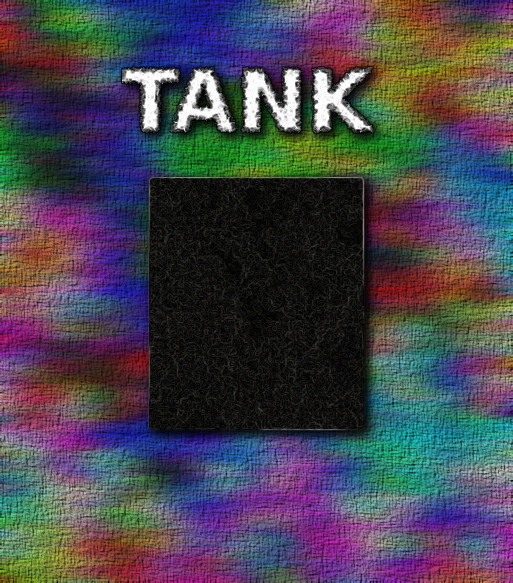
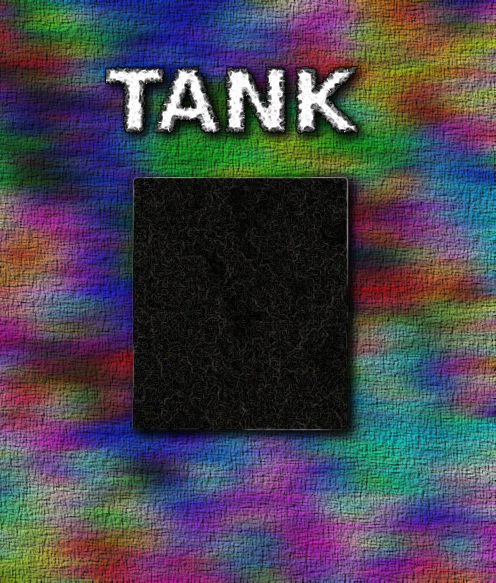
load sound befor  gameplay, fixed window width and heigth

diff --git a/TANK/src/MainPanel.java b/TANK/src/MainPanel.java
@@ -19,8 +19,9 @@ public class MainPanel extends JPanel implements Runnable{
 	
 	private JButton startButton = new JButton("Play");
 	private JButton multiButton = new JButton("Top 10");
-	private JLabel healthLable = new JLabel("Life ");
-	private JLabel scoreLable = new JLabel("Score ");
+	private JLabel healthLable1 = new JLabel("Tank HP: ");
+	private JLabel healthLable2 = new JLabel("Bird HP: ");
+	private JLabel scoreLable = new JLabel("Score: ");
 	private JLabel totalScoreLable = new JLabel();
 	private JTextField nameTextField = new JTextField("Tank name");
 	private JLabel titleLable = new JLabel();
@@ -58,6 +59,9 @@ public class MainPanel extends JPanel implements Runnable{
 		this.setBackground(new Color(0, 0, 0));
 			
 		guiSetUp();
+
+		Sound loadShoot = new Sound("Sounds\\tank_shoot01.wav");
+		loadShoot.play(-100.0f);
 		
 		changeGameState(GameStates.MainMenu); // default: MainMenu
 		
@@ -189,8 +193,9 @@ public class MainPanel extends JPanel implements Runnable{
 						deadBlockList.clear();
 					}
 
-					healthLable.setText("Life " + tank.getCurHp());
-					scoreLable.setText("Score " + String.format("%08d", tank.getScore()));
+					healthLable1.setText("Tank HP: " + tank.getCurHp());
+					healthLable2.setText("Bird HP: " + bird.getCurHP());
+					scoreLable.setText("Score: " + String.format("%08d", tank.getScore()));
 				}
 			}
 			// ----------------------------------- Speles darbibas koda beigas
@@ -230,7 +235,8 @@ public class MainPanel extends JPanel implements Runnable{
 				startButton.setVisible(true);
 				nameTextField.setVisible(true);
 				scoreLable.setVisible(false);
-				healthLable.setVisible(false);
+				healthLable1.setVisible(false);
+				healthLable2.setVisible(false);
 				totalScoreLable.setVisible(false);
 				scorePanel.setVisible(false);
 				break;
@@ -240,7 +246,8 @@ public class MainPanel extends JPanel implements Runnable{
 				startButton.setVisible(false);
 				nameTextField.setVisible(false);
 				scoreLable.setVisible(true);
-				healthLable.setVisible(true);
+				healthLable1.setVisible(true);
+				healthLable2.setVisible(true);
 				totalScoreLable.setVisible(false);
 				scorePanel.setVisible(false);
 				multiButton.setVisible(false);
@@ -249,7 +256,8 @@ public class MainPanel extends JPanel implements Runnable{
 				currentGameState = state;
 				titleLable.setVisible(true);
 				scoreLable.setVisible(false);
-				healthLable.setVisible(false);
+				healthLable1.setVisible(false);
+				healthLable2.setVisible(false);
 				totalScoreLable.setVisible(true);
 				multiButton.setVisible(true);
 				multiButton.setText("Continue");
@@ -261,7 +269,8 @@ public class MainPanel extends JPanel implements Runnable{
 				currentGameState = state;
 				titleLable.setVisible(true);
 				scoreLable.setVisible(false);
-				healthLable.setVisible(false);
+				healthLable1.setVisible(false);
+				healthLable2.setVisible(false);
 				totalScoreLable.setVisible(true);
 				multiButton.setVisible(true);
 				multiButton.setText("End game");
@@ -282,7 +291,7 @@ public class MainPanel extends JPanel implements Runnable{
 	}
 
 	private void guiSetUp(){		
-		startButton.setBounds(156, 200, 200, 60);
+		startButton.setBounds(140, 200, 200, 60);
 		startButton.setFont(new Font("Arial", Font.BOLD, 16));
 		startButton.setBorderPainted(false);
 		startButton.setFocusPainted(false);
@@ -301,7 +310,7 @@ public class MainPanel extends JPanel implements Runnable{
 		});
 		this.add(startButton);
 		
-		nameTextField.setBounds(156, 290, 200, 30);
+		nameTextField.setBounds(140, 290, 200, 30);
 		nameTextField.setFont(new Font("Arial", Font.BOLD, 16));
 		nameTextField.setBorder(javax.swing.BorderFactory.createEmptyBorder());
 		nameTextField.addActionListener(new ActionListener() {
@@ -313,11 +322,11 @@ public class MainPanel extends JPanel implements Runnable{
 		});
 		this.add(nameTextField);
 		
-		scorePanel.setBounds(156, 200, 200, 170);
+		scorePanel.setBounds(140, 200, 200, 170);
 		scorePanel.setLayout(null);
 		this.add(scorePanel);
 		
-		multiButton.setBounds(156, 380, 200, 25);
+		multiButton.setBounds(140, 380, 200, 25);
 		multiButton.setFont(new Font("Arial", Font.BOLD, 16));
 		multiButton.setBorderPainted(false);
 		multiButton.setFocusPainted(false);
@@ -360,22 +369,27 @@ public class MainPanel extends JPanel implements Runnable{
 		});
 		this.add(multiButton);
 		
-		healthLable.setBounds(5, 515, 200, 30);
-		healthLable.setFont(new Font("Arial", Font.BOLD, 16));
-		healthLable.setForeground(new Color(255, 255, 255));
-		this.add(healthLable);
+		healthLable1.setBounds(5, 485, 200, 30);
+		healthLable1.setFont(new Font("Arial", Font.BOLD, 16));
+		healthLable1.setForeground(new Color(255, 255, 255));
+		this.add(healthLable1);
 		
-		scoreLable.setBounds(210, 515, 200, 30);
+		healthLable2.setBounds(10, 510, 200, 30);
+		healthLable2.setFont(new Font("Arial", Font.BOLD, 16));
+		healthLable2.setForeground(new Color(255, 255, 255));
+		this.add(healthLable2);
+		
+		scoreLable.setBounds(340, 510, 200, 30);
 		scoreLable.setFont(new Font("Arial", Font.BOLD, 16));
 		scoreLable.setForeground(new Color(255, 255, 255));
 		this.add(scoreLable);
 		
-		totalScoreLable.setBounds(156, 200, 200, 30);
+		totalScoreLable.setBounds(140, 200, 200, 30);
 		totalScoreLable.setFont(new Font("Arial", Font.BOLD, 16));
 		totalScoreLable.setForeground(new Color(255, 255, 255));
 		this.add(totalScoreLable);
 		
-		titleLable.setBounds(0, 0, 512, 582);
+		titleLable.setBounds(0, 0, Settings.width.value(), Settings.height.value());
 		titleLable.setIcon(new ImageIcon("Images//tank_title.png"));
 		this.add(titleLable);
 	}

diff --git a/TANK/src/Sound.java b/TANK/src/Sound.java
@@ -1,9 +1,5 @@
 import java.io.File;
-
-import javax.sound.sampled.AudioInputStream;
-import javax.sound.sampled.AudioSystem;
-import javax.sound.sampled.Clip;
-
+import javax.sound.sampled.*;
 
 public class Sound {
 
@@ -18,6 +14,21 @@ public class Sound {
 			Clip clip = AudioSystem.getClip();
 			AudioInputStream inputStream = AudioSystem.getAudioInputStream(new File(soundPath));
 			clip.open(inputStream);
+			FloatControl gainControl = (FloatControl) clip.getControl(FloatControl.Type.MASTER_GAIN);
+			gainControl.setValue(0.0f);
+			clip.start(); 
+		} catch (Exception e) {
+			e.getMessage();
+		}
+	}
+	
+	public void play(float value){
+		try {
+			Clip clip = AudioSystem.getClip();
+			AudioInputStream inputStream = AudioSystem.getAudioInputStream(new File(soundPath));
+			clip.open(inputStream);
+			FloatControl gainControl = (FloatControl) clip.getControl(FloatControl.Type.MASTER_GAIN);
+			gainControl.setValue(value);
 			clip.start(); 
 		} catch (Exception e) {
 			e.getMessage();

diff --git a/TANK/src/Database.java b/TANK/src/Database.java
@@ -39,12 +39,14 @@ public class Database {
 	
 	public void write(String text, int number){
 		Statement statement;
-		try {
-			statement = connection.createStatement();
-			statement.executeUpdate("INSERT INTO score_table (nickname, score) VALUES ('"+ text +"', "+ number +")");
-			statement.close();
-		} catch (SQLException e) {
-			e.printStackTrace();
+		if(connection != null){
+			try {
+				statement = connection.createStatement();
+				statement.executeUpdate("INSERT INTO score_table (nickname, score) VALUES ('"+ text +"', "+ number +")");
+				statement.close();
+			} catch (SQLException e) {
+				e.printStackTrace();
+			}
 		}
 	}
 	

diff --git a/TANK/src/IronBird.java b/TANK/src/IronBird.java
@@ -17,6 +17,10 @@ public class IronBird extends GameObject{
 		curHp = maxHp;
 	}
 	
+	public int getCurHP(){
+		return curHp;
+	}
+	
 	public void recieveDamage(int damage){
 		curHp -= damage;
 	}

diff --git a/TANK/src/Settings.java b/TANK/src/Settings.java
@@ -1,8 +1,8 @@
 
 public enum Settings {
 	framesPerSecond (60),
-	width  (518),
-	height (582),
+	width  (486),
+	height (570),
 	scale  (1);
 	
 	private final int value;
